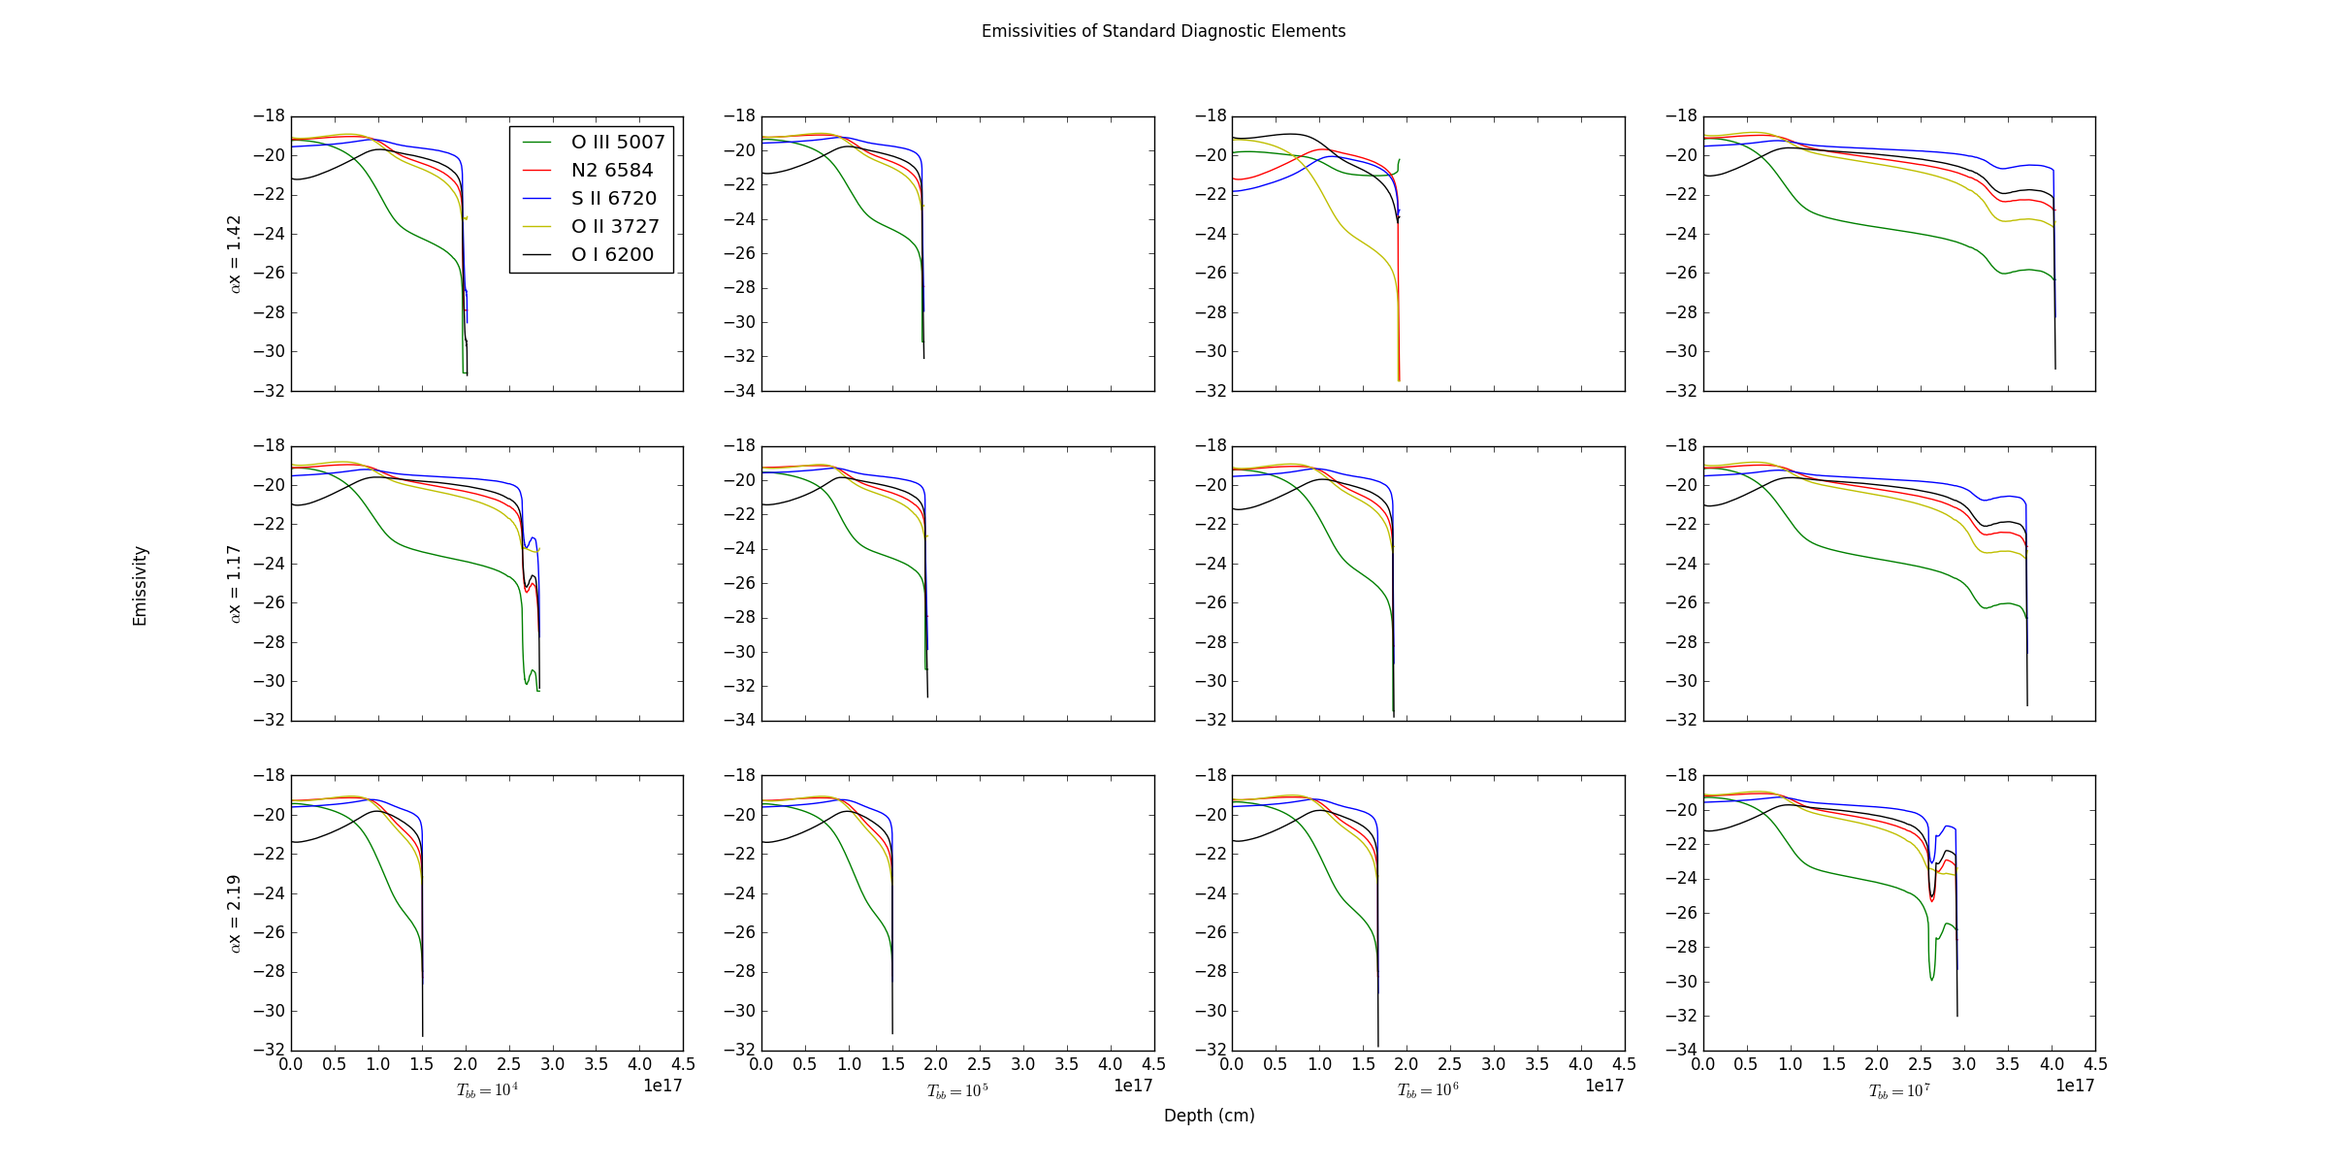
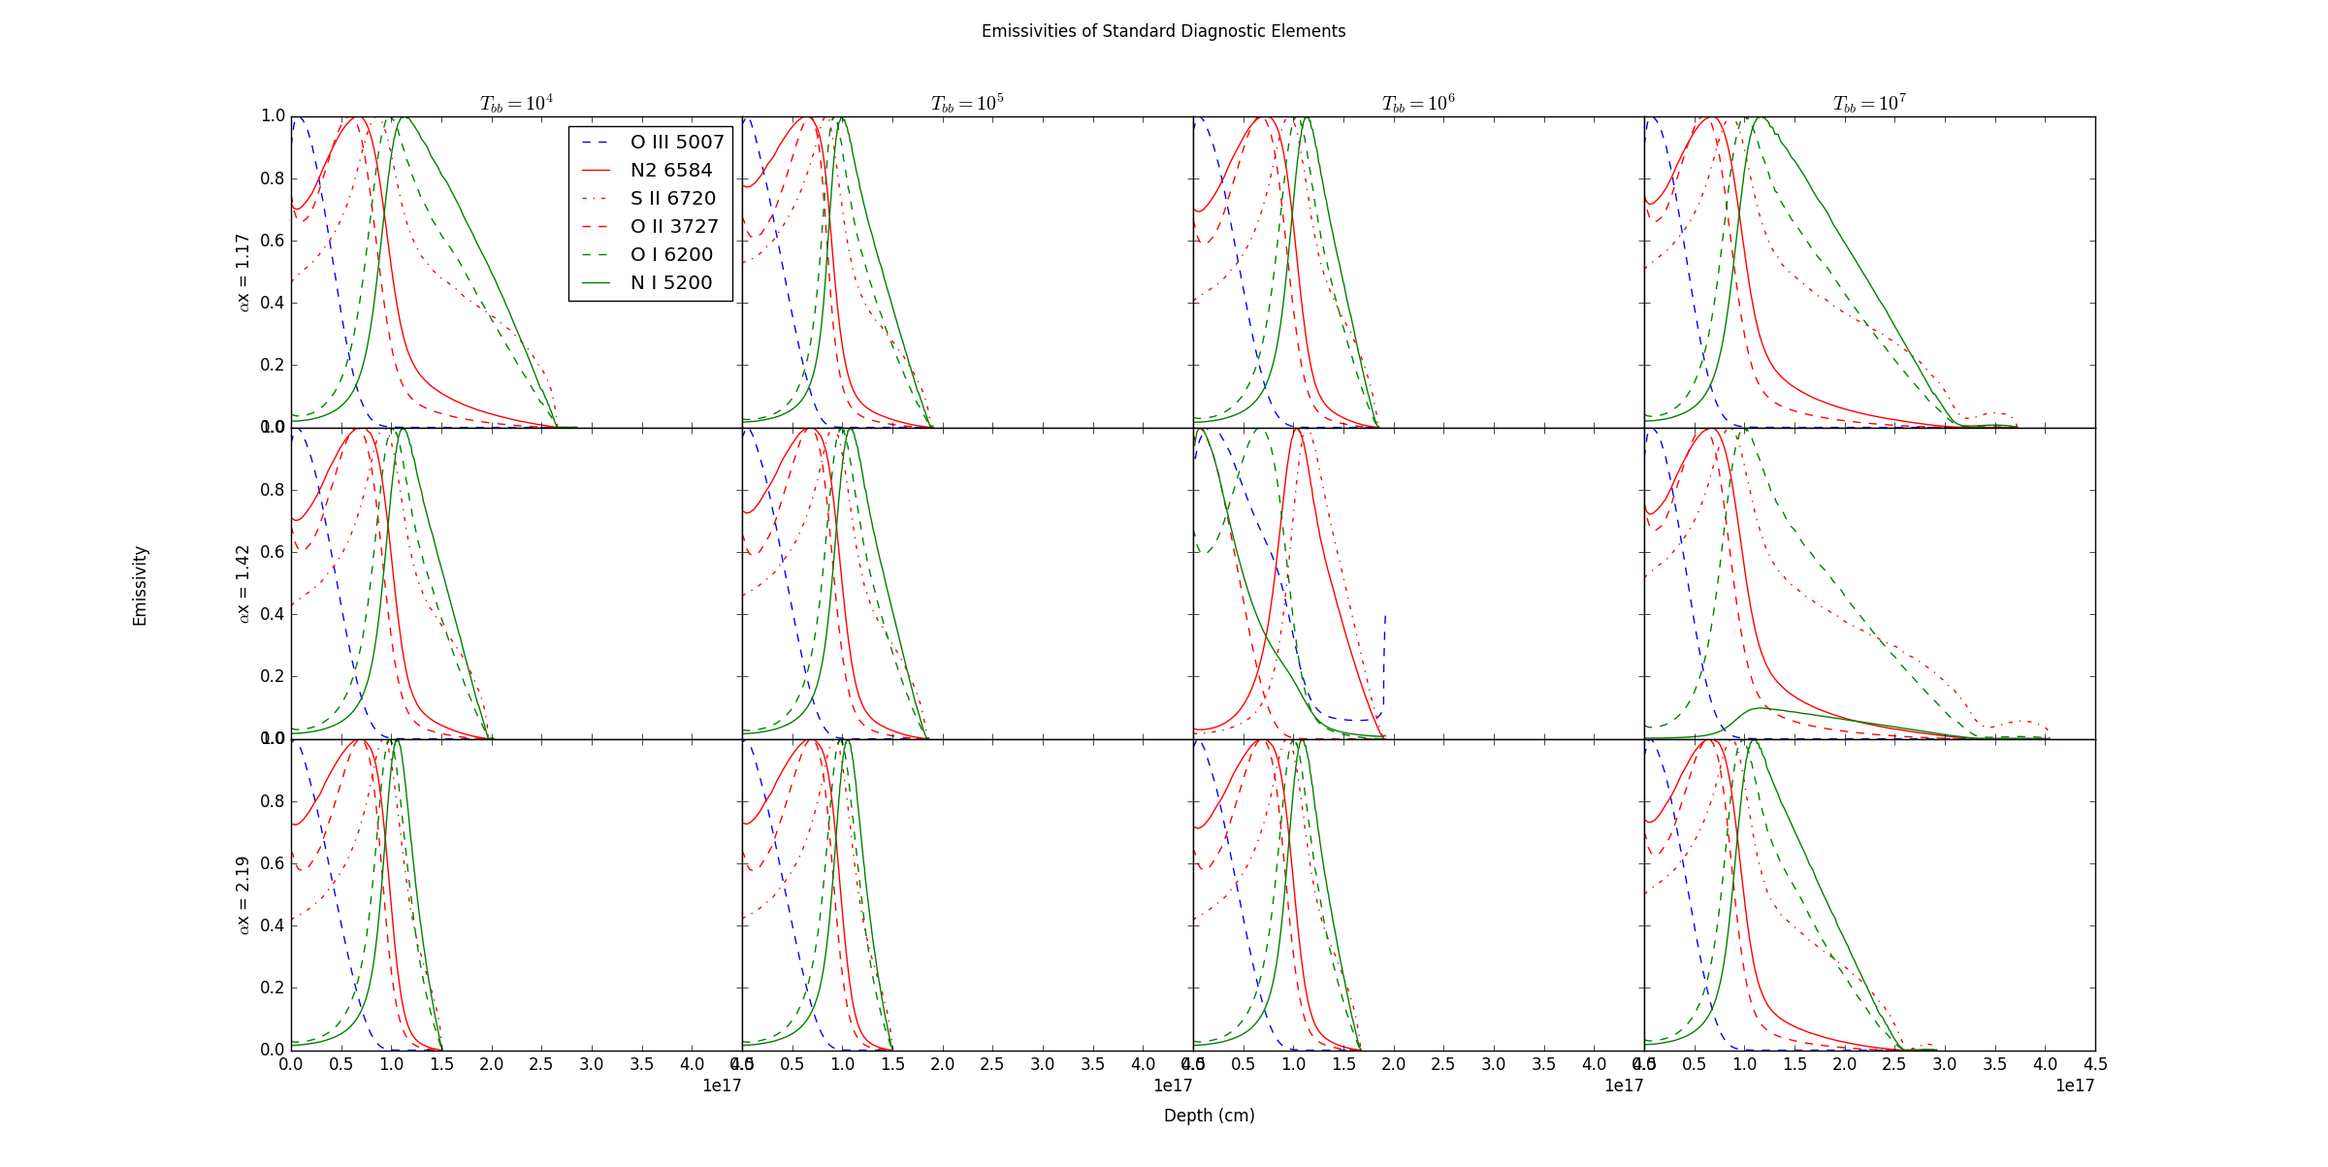
Changed emissivity plot format

diff --git a/scripts/EmissivityPlots.py b/scripts/EmissivityPlots.py
@@ -40,106 +40,106 @@ nitrogenT7_ax117_data = np.genfromtxt(NitrogenT7_ax117_File, skip_header=1,dtype
 nitrogenT7_ax219_data = np.genfromtxt(NitrogenT7_ax219_File, skip_header=1,dtype=float,unpack=False)
 
 fig, ((ax1,ax2,ax3,ax4),(ax5,ax6,ax7,ax8) ,(ax9,ax10,ax11,ax12)) = plt.subplots(3,4,sharex = True,sharey = True)
-plt.gca().invert_yaxis()
+
 plt.subplots_adjust(wspace = 0, hspace = 0)
 
 #Plot Baseline structure for each Temperature
-ax1.plot(NitrogenT4_data[:,0],NitrogenT4_data[:,1]/np.amax(NitrogenT4_data[:,1]), c = 'g', label = 'O III 5007')
-ax1.plot(NitrogenT4_data[:,0],NitrogenT4_data[:,4]/np.amax(NitrogenT4_data[:,4]), c = 'r', ls = '--', label = 'N2 6584')
-ax1.plot(NitrogenT4_data[:,0],NitrogenT4_data[:,9]/np.amax(NitrogenT4_data[:,9]), c = 'r', ls = '-.', label = 'S II 6720')
-ax1.plot(NitrogenT4_data[:,0],NitrogenT4_data[:,2]/np.amax(NitrogenT4_data[:,2]), c = 'r',label = 'O II 3727')
-ax1.plot(NitrogenT4_data[:,0],NitrogenT4_data[:,3]/np.amax(NitrogenT4_data[:,3]), c = 'black', label = 'O I 6200')
-ax1.plot(NitrogenT4_data[:,0], NitrogenT4_data[:,8]/np.amax(NitrogenT4_data[:,8]),c = 'black',ls = '--', label = 'N I 5200')
-ax1.set_ylabel(r'$\alpha$x = 1.42')
+ax5.plot(NitrogenT4_data[:,0],np.divide(10**NitrogenT4_data[:,1],10**np.amax(NitrogenT4_data[:,1])), c = 'b', ls = '--', label = 'O III 5007')
+ax5.plot(NitrogenT4_data[:,0],np.divide(10**NitrogenT4_data[:,4],10**np.amax(NitrogenT4_data[:,4])), c = 'r',  label = 'N II 6584')
+ax5.plot(NitrogenT4_data[:,0],np.divide(10**NitrogenT4_data[:,9],10**np.amax(NitrogenT4_data[:,9])), c = 'r', ls = '-.', label = 'S II 6720')
+ax5.plot(NitrogenT4_data[:,0],np.divide(10**NitrogenT4_data[:,2],10**np.amax(NitrogenT4_data[:,2])), c = 'r', ls = '--',label = 'O II 3727')
+ax5.plot(NitrogenT4_data[:,0],np.divide(10**NitrogenT4_data[:,3],10**np.amax(NitrogenT4_data[:,3])), c = 'g',ls = '--', label = 'O I 6200')
+ax5.plot(NitrogenT4_data[:,0], np.divide(10**NitrogenT4_data[:,8],10**np.amax(NitrogenT4_data[:,8])),c = 'g', label = 'N I 5200')
+ax5.set_ylabel(r'$\alpha$x = 1.42')
 ax1.set_title(r'$T_{bb}=10^4$')
 
-ax2.plot(NitrogenT5_data[:,0],NitrogenT5_data[:,1]/np.amax(NitrogenT5_data[:,1]), c = 'g')
-ax2.plot(NitrogenT5_data[:,0],NitrogenT5_data[:,4]/np.amax(NitrogenT5_data[:,4]), c = 'r',ls = '--')
-ax2.plot(NitrogenT5_data[:,0],NitrogenT5_data[:,9]/np.amax(NitrogenT5_data[:,9]), c = 'r',ls = '-.')
-ax2.plot(NitrogenT5_data[:,0],NitrogenT5_data[:,2]/np.amax(NitrogenT5_data[:,2]), c = 'r')
-ax2.plot(NitrogenT5_data[:,0],NitrogenT5_data[:,3]/np.amax(NitrogenT5_data[:,3]), c = 'black')
-ax2.plot(NitrogenT5_data[:,0], NitrogenT5_data[:,8]/np.amax(NitrogenT5_data[:,8]),c = 'black',ls = '--', label = 'N I 5200')
+ax6.plot(NitrogenT5_data[:,0],10**NitrogenT5_data[:,1]/10**np.amax(NitrogenT5_data[:,1]), c = 'b',ls = '--')
+ax6.plot(NitrogenT5_data[:,0],10**NitrogenT5_data[:,4]/10**np.amax(NitrogenT5_data[:,4]), c = 'r')
+ax6.plot(NitrogenT5_data[:,0],10**NitrogenT5_data[:,9]/10**np.amax(NitrogenT5_data[:,9]), c = 'r',ls = '-.')
+ax6.plot(NitrogenT5_data[:,0],10**NitrogenT5_data[:,2]/10**np.amax(NitrogenT5_data[:,2]), c = 'r',ls = '--')
+ax6.plot(NitrogenT5_data[:,0],10**NitrogenT5_data[:,3]/10**np.amax(NitrogenT5_data[:,3]), c = 'g',ls = '--')
+ax6.plot(NitrogenT5_data[:,0], 10**NitrogenT5_data[:,8]/10**np.amax(NitrogenT5_data[:,8]),c = 'g', label = 'N I 5200')
 ax2.set_title(r'$T_{bb}=10^5$')
 
-ax3.plot(nitrogenT6_data[:,0],nitrogenT6_data[:,1]/np.amax(nitrogenT6_data[:,1]), c = 'g')
-ax3.plot(nitrogenT6_data[:,0],nitrogenT6_data[:,4]/np.amax(nitrogenT6_data[:,4]), c = 'r',ls = '--')
-ax3.plot(nitrogenT6_data[:,0],nitrogenT6_data[:,9]/np.amax(nitrogenT6_data[:,9]), c = 'r',ls = '-.')
-ax3.plot(nitrogenT6_data[:,0],nitrogenT6_data[:,2]/np.amax(nitrogenT6_data[:,2]), c = 'r')
-ax3.plot(nitrogenT6_data[:,0],nitrogenT6_data[:,3]/np.amax(nitrogenT6_data[:,3]), c = 'black')
-ax3.plot(nitrogenT6_data[:,0], nitrogenT6_data[:,8]/np.amax(nitrogenT6_data[:,8]),c = 'black',ls = '--', label = 'N I 5200')
+ax7.plot(nitrogenT6_data[:,0],10**nitrogenT6_data[:,1]/10**np.amax(nitrogenT6_data[:,1]), c = 'b',ls = '--')
+ax7.plot(nitrogenT6_data[:,0],10**nitrogenT6_data[:,4]/10**np.amax(nitrogenT6_data[:,4]), c = 'r')
+ax7.plot(nitrogenT6_data[:,0],10**nitrogenT6_data[:,9]/10**np.amax(nitrogenT6_data[:,9]), c = 'r',ls = '-.')
+ax7.plot(nitrogenT6_data[:,0],10**nitrogenT6_data[:,2]/10**np.amax(nitrogenT6_data[:,2]), c = 'r',ls = '--')
+ax7.plot(nitrogenT6_data[:,0],10**nitrogenT6_data[:,3]/10**np.amax(nitrogenT6_data[:,3]), c = 'g',ls = '--')
+ax7.plot(nitrogenT6_data[:,0],10**nitrogenT6_data[:,8]/10**np.amax(nitrogenT6_data[:,8]),c = 'g', label = 'N I 5200')
 ax3.set_title(r'$T_{bb}=10^6$')
 
-ax4.plot(nitrogenT7_data[:,0],nitrogenT7_data[:,1]/np.amax(nitrogenT7_data[:,1]), c = 'g')
-ax4.plot(nitrogenT7_data[:,0],nitrogenT7_data[:,4]/np.amax(nitrogenT7_data[:,4]), c = 'r',ls = '--')
-ax4.plot(nitrogenT7_data[:,0],nitrogenT7_data[:,9]/np.amax(nitrogenT7_data[:,9]), c = 'r',ls = '-.')
-ax4.plot(nitrogenT7_data[:,0],nitrogenT7_data[:,2]/np.amax(nitrogenT7_data[:,2]), c = 'r')
-ax4.plot(nitrogenT7_data[:,0],nitrogenT7_data[:,3]/np.amax(nitrogenT7_data[:,3]), c = 'black')
-ax4.plot(nitrogenT7_data[:,0], nitrogenT7_data[:,8]/np.amax(nitrogenT7_data[:,4]),c = 'black',ls = '--', label = 'N I 5200')
+ax8.plot(nitrogenT7_data[:,0],10**nitrogenT7_data[:,1]/10**np.amax(nitrogenT7_data[:,1]), c = 'b',ls = '--')
+ax8.plot(nitrogenT7_data[:,0],10**nitrogenT7_data[:,4]/10**np.amax(nitrogenT7_data[:,4]), c = 'r')
+ax8.plot(nitrogenT7_data[:,0],10**nitrogenT7_data[:,9]/10**np.amax(nitrogenT7_data[:,9]), c = 'r',ls = '-.')
+ax8.plot(nitrogenT7_data[:,0],10**nitrogenT7_data[:,2]/10**np.amax(nitrogenT7_data[:,2]), c = 'r',ls = '--')
+ax8.plot(nitrogenT7_data[:,0],10**nitrogenT7_data[:,3]/10**np.amax(nitrogenT7_data[:,3]), c = 'g',ls = '--')
+ax8.plot(nitrogenT7_data[:,0], 10**nitrogenT7_data[:,8]/10**np.amax(nitrogenT7_data[:,4]),c = 'g', label = 'N I 5200')
 ax4.set_title(r'$T_{bb}=10^7$')
 #Plot ax = 117 Structure for each Temperature
-ax5.plot(nitrogenT4_ax117_data[:,0],nitrogenT4_ax117_data[:,1]/np.amax(nitrogenT4_ax117_data[:,1]), c = 'g')
-ax5.plot(nitrogenT4_ax117_data[:,0],nitrogenT4_ax117_data[:,4]/np.amax(nitrogenT4_ax117_data[:,4]), c = 'r',ls = '--')
-ax5.plot(nitrogenT4_ax117_data[:,0],nitrogenT4_ax117_data[:,9]/np.amax(nitrogenT4_ax117_data[:,9]), c = 'r',ls = '-.')
-ax5.plot(nitrogenT4_ax117_data[:,0],nitrogenT4_ax117_data[:,2]/np.amax(nitrogenT4_ax117_data[:,2]), c = 'r')
-ax5.plot(nitrogenT4_ax117_data[:,0],nitrogenT4_ax117_data[:,3]/np.amax(nitrogenT4_ax117_data[:,3]), c = 'black')
-ax5.plot(nitrogenT4_ax117_data[:,0],nitrogenT4_ax117_data[:,8]/np.amax(nitrogenT4_ax117_data[:,8]), c = 'black', ls = '--')
-ax5.set_ylabel(r'$\alpha$x = 1.17')
+ax1.plot(nitrogenT4_ax117_data[:,0],10**nitrogenT4_ax117_data[:,1]/10**np.amax(nitrogenT4_ax117_data[:,1]), c = 'b',ls = '--',label = 'O III 5007')
+ax1.plot(nitrogenT4_ax117_data[:,0],10**nitrogenT4_ax117_data[:,4]/10**np.amax(nitrogenT4_ax117_data[:,4]), c = 'r', label ='N2 6584')
+ax1.plot(nitrogenT4_ax117_data[:,0],10**nitrogenT4_ax117_data[:,9]/10**np.amax(nitrogenT4_ax117_data[:,9]), c = 'r',ls = '-.', label = 'S II 6720' )
+ax1.plot(nitrogenT4_ax117_data[:,0],10**nitrogenT4_ax117_data[:,2]/10**np.amax(nitrogenT4_ax117_data[:,2]), c = 'r',ls = '--',label = 'O II 3727')
+ax1.plot(nitrogenT4_ax117_data[:,0],10**nitrogenT4_ax117_data[:,3]/10**np.amax(nitrogenT4_ax117_data[:,3]), c = 'g',ls = '--', label = 'O I 6200')
+ax1.plot(nitrogenT4_ax117_data[:,0],10**nitrogenT4_ax117_data[:,8]/10**np.amax(nitrogenT4_ax117_data[:,8]), c = 'g',label = 'N I 5200')
+ax1.set_ylabel(r'$\alpha$x = 1.17')
 
-ax6.plot(nitrogenT5_ax117_data[:,0],nitrogenT5_ax117_data[:,1]/np.amax(nitrogenT5_ax117_data[:,1]), c = 'g')
-ax6.plot(nitrogenT5_ax117_data[:,0],nitrogenT5_ax117_data[:,4]/np.amax(nitrogenT5_ax117_data[:,4]), c = 'r',ls = '--')
-ax6.plot(nitrogenT5_ax117_data[:,0],nitrogenT5_ax117_data[:,9]/np.amax(nitrogenT5_ax117_data[:,9]), c = 'r', ls = '-.')
-ax6.plot(nitrogenT5_ax117_data[:,0],nitrogenT5_ax117_data[:,2]/np.amax(nitrogenT5_ax117_data[:,2]), c = 'r')
-ax6.plot(nitrogenT5_ax117_data[:,0],nitrogenT5_ax117_data[:,3]/np.amax(nitrogenT5_ax117_data[:,3]), c = 'black')
-ax6.plot(nitrogenT5_ax117_data[:,0],nitrogenT5_ax117_data[:,8]/np.amax(nitrogenT5_ax117_data[:,8]), c = 'black', ls = '--')
+ax2.plot(nitrogenT5_ax117_data[:,0],10**nitrogenT5_ax117_data[:,1]/10**np.amax(nitrogenT5_ax117_data[:,1]), c = 'b',ls = '--')
+ax2.plot(nitrogenT5_ax117_data[:,0],10**nitrogenT5_ax117_data[:,4]/10**np.amax(nitrogenT5_ax117_data[:,4]), c = 'r')
+ax2.plot(nitrogenT5_ax117_data[:,0],10**nitrogenT5_ax117_data[:,9]/10**np.amax(nitrogenT5_ax117_data[:,9]), c = 'r', ls = '-.')
+ax2.plot(nitrogenT5_ax117_data[:,0],10**nitrogenT5_ax117_data[:,2]/10**np.amax(nitrogenT5_ax117_data[:,2]), c = 'r',ls = '--')
+ax2.plot(nitrogenT5_ax117_data[:,0],10**nitrogenT5_ax117_data[:,3]/10**np.amax(nitrogenT5_ax117_data[:,3]), c = 'g',ls = '--')
+ax2.plot(nitrogenT5_ax117_data[:,0],10**nitrogenT5_ax117_data[:,8]/10**np.amax(nitrogenT5_ax117_data[:,8]), c = 'g')
 
-ax7.plot(nitrogenT6_ax117_data[:,0],nitrogenT6_ax117_data[:,1]/np.amax(nitrogenT6_ax117_data[:,1]), c = 'g')
-ax7.plot(nitrogenT6_ax117_data[:,0],nitrogenT6_ax117_data[:,4]/np.amax(nitrogenT6_ax117_data[:,4]), c = 'r',ls = '--')
-ax7.plot(nitrogenT6_ax117_data[:,0],nitrogenT6_ax117_data[:,9]/np.amax(nitrogenT6_ax117_data[:,9]), c = 'r', ls = '-.')
-ax7.plot(nitrogenT6_ax117_data[:,0],nitrogenT6_ax117_data[:,2]/np.amax(nitrogenT6_ax117_data[:,2]), c = 'r')
-ax7.plot(nitrogenT6_ax117_data[:,0],nitrogenT6_ax117_data[:,3]/np.amax(nitrogenT6_ax117_data[:,3]), c = 'black')
-ax7.plot(nitrogenT6_ax117_data[:,0],nitrogenT6_ax117_data[:,8]/np.amax(nitrogenT6_ax117_data[:,8]), c = 'black', ls = '--')
+ax3.plot(nitrogenT6_ax117_data[:,0],10**nitrogenT6_ax117_data[:,1]/10**np.amax(nitrogenT6_ax117_data[:,1]), c = 'b',ls = '--')
+ax3.plot(nitrogenT6_ax117_data[:,0],10**nitrogenT6_ax117_data[:,4]/10**np.amax(nitrogenT6_ax117_data[:,4]), c = 'r')
+ax3.plot(nitrogenT6_ax117_data[:,0],10**nitrogenT6_ax117_data[:,9]/10**np.amax(nitrogenT6_ax117_data[:,9]), c = 'r', ls = '-.')
+ax3.plot(nitrogenT6_ax117_data[:,0],10**nitrogenT6_ax117_data[:,2]/10**np.amax(nitrogenT6_ax117_data[:,2]), c = 'r',ls = '--')
+ax3.plot(nitrogenT6_ax117_data[:,0],10**nitrogenT6_ax117_data[:,3]/10**np.amax(nitrogenT6_ax117_data[:,3]), c = 'g',ls = '--')
+ax3.plot(nitrogenT6_ax117_data[:,0],10**nitrogenT6_ax117_data[:,8]/10**np.amax(nitrogenT6_ax117_data[:,8]), c = 'g')
 
-ax8.plot(nitrogenT7_ax117_data[:,0],nitrogenT7_ax117_data[:,1]/np.amax(nitrogenT7_ax117_data[:,1]), c = 'g')
-ax8.plot(nitrogenT7_ax117_data[:,0],nitrogenT7_ax117_data[:,4]/np.amax(nitrogenT7_ax117_data[:,4]), c = 'r',ls = '--')
-ax8.plot(nitrogenT7_ax117_data[:,0],nitrogenT7_ax117_data[:,9]/np.amax(nitrogenT7_ax117_data[:,9]), c = 'r', ls = '-.')
-ax8.plot(nitrogenT7_ax117_data[:,0],nitrogenT7_ax117_data[:,2]/np.amax(nitrogenT7_ax117_data[:,2]), c = 'r')
-ax8.plot(nitrogenT7_ax117_data[:,0],nitrogenT7_ax117_data[:,3]/np.amax(nitrogenT7_ax117_data[:,3]), c = 'black')
-ax8.plot(nitrogenT7_ax117_data[:,0],nitrogenT7_ax117_data[:,8]/np.amax(nitrogenT7_ax117_data[:,8]), c = 'black', ls = '--')
+ax4.plot(nitrogenT7_ax117_data[:,0],10**nitrogenT7_ax117_data[:,1]/10**np.amax(nitrogenT7_ax117_data[:,1]), c = 'b',ls = '--')
+ax4.plot(nitrogenT7_ax117_data[:,0],10**nitrogenT7_ax117_data[:,4]/10**np.amax(nitrogenT7_ax117_data[:,4]), c = 'r')
+ax4.plot(nitrogenT7_ax117_data[:,0],10**nitrogenT7_ax117_data[:,9]/10**np.amax(nitrogenT7_ax117_data[:,9]), c = 'r', ls = '-.')
+ax4.plot(nitrogenT7_ax117_data[:,0],10**nitrogenT7_ax117_data[:,2]/10**np.amax(nitrogenT7_ax117_data[:,2]), c = 'r',ls = '--')
+ax4.plot(nitrogenT7_ax117_data[:,0],10**nitrogenT7_ax117_data[:,3]/10**np.amax(nitrogenT7_ax117_data[:,3]), c = 'g',ls = '--')
+ax4.plot(nitrogenT7_ax117_data[:,0],10**nitrogenT7_ax117_data[:,8]/10**np.amax(nitrogenT7_ax117_data[:,8]), c = 'g')
 #Plot ax = 219 structure for each temperature 
-ax9.plot(nitrogenT4_ax219_data[:,0],nitrogenT4_ax219_data[:,1]/np.amax(nitrogenT4_ax219_data[:,1]), c = 'g')
-ax9.plot(nitrogenT4_ax219_data[:,0],nitrogenT4_ax219_data[:,4]/np.amax(nitrogenT4_ax219_data[:,4]), c = 'r',ls = '--')
-ax9.plot(nitrogenT4_ax219_data[:,0],nitrogenT4_ax219_data[:,9]/np.amax(nitrogenT4_ax219_data[:,9]), c = 'r',ls = '-.')
-ax9.plot(nitrogenT4_ax219_data[:,0],nitrogenT4_ax219_data[:,2]/np.amax(nitrogenT4_ax219_data[:,2]), c = 'r')
-ax9.plot(nitrogenT4_ax219_data[:,0],nitrogenT4_ax219_data[:,3]/np.amax(nitrogenT4_ax219_data[:,3]), c = 'black')
-ax9.plot(nitrogenT4_ax219_data[:,0],nitrogenT4_ax219_data[:,8]/np.amax(nitrogenT4_ax219_data[:,8]), c = 'black',ls = '--')
+ax9.plot(nitrogenT4_ax219_data[:,0],10**nitrogenT4_ax219_data[:,1]/10**np.amax(nitrogenT4_ax219_data[:,1]), c = 'b',ls = '--')
+ax9.plot(nitrogenT4_ax219_data[:,0],10**nitrogenT4_ax219_data[:,4]/10**np.amax(nitrogenT4_ax219_data[:,4]), c = 'r')
+ax9.plot(nitrogenT4_ax219_data[:,0],10**nitrogenT4_ax219_data[:,9]/10**np.amax(nitrogenT4_ax219_data[:,9]), c = 'r',ls = '-.')
+ax9.plot(nitrogenT4_ax219_data[:,0],10**nitrogenT4_ax219_data[:,2]/10**np.amax(nitrogenT4_ax219_data[:,2]), c = 'r',ls = '--')
+ax9.plot(nitrogenT4_ax219_data[:,0],10**nitrogenT4_ax219_data[:,3]/10**np.amax(nitrogenT4_ax219_data[:,3]), c = 'g',ls = '--')
+ax9.plot(nitrogenT4_ax219_data[:,0],10**nitrogenT4_ax219_data[:,8]/10**np.amax(nitrogenT4_ax219_data[:,8]), c = 'g')
 
 ax9.set_ylabel(r'$\alpha$x = 2.19')
 #ax9.set_xlabel(r'$T_{bb} = 10^4$')
 
-ax10.plot(nitrogenT5_ax219_data[:,0],nitrogenT5_ax219_data[:,1]/np.amax(nitrogenT5_ax219_data[:,1]), c = 'g')
-ax10.plot(nitrogenT5_ax219_data[:,0],nitrogenT5_ax219_data[:,4]/np.amax(nitrogenT5_ax219_data[:,4]), c = 'r',ls = '--')
-ax10.plot(nitrogenT5_ax219_data[:,0],nitrogenT5_ax219_data[:,9]/np.amax(nitrogenT5_ax219_data[:,9]), c = 'r',ls = '-.')
-ax10.plot(nitrogenT5_ax219_data[:,0],nitrogenT5_ax219_data[:,2]/np.amax(nitrogenT5_ax219_data[:,2]), c = 'r')
-ax10.plot(nitrogenT5_ax219_data[:,0],nitrogenT5_ax219_data[:,3]/np.amax(nitrogenT5_ax219_data[:,3]), c = 'black')
-ax10.plot(nitrogenT5_ax219_data[:,0],nitrogenT5_ax219_data[:,8]/np.amax(nitrogenT5_ax219_data[:,8]), c = 'black',ls = '--')
+ax10.plot(nitrogenT5_ax219_data[:,0],10**nitrogenT5_ax219_data[:,1]/10**np.amax(nitrogenT5_ax219_data[:,1]), c = 'b',ls = '--')
+ax10.plot(nitrogenT5_ax219_data[:,0],10**nitrogenT5_ax219_data[:,4]/10**np.amax(nitrogenT5_ax219_data[:,4]), c = 'r')
+ax10.plot(nitrogenT5_ax219_data[:,0],10**nitrogenT5_ax219_data[:,9]/10**np.amax(nitrogenT5_ax219_data[:,9]), c = 'r',ls = '-.')
+ax10.plot(nitrogenT5_ax219_data[:,0],10**nitrogenT5_ax219_data[:,2]/10**np.amax(nitrogenT5_ax219_data[:,2]), c = 'r',ls = '--')
+ax10.plot(nitrogenT5_ax219_data[:,0],10**nitrogenT5_ax219_data[:,3]/10**np.amax(nitrogenT5_ax219_data[:,3]), c = 'g',ls = '--')
+ax10.plot(nitrogenT5_ax219_data[:,0],10**nitrogenT5_ax219_data[:,8]/10**np.amax(nitrogenT5_ax219_data[:,8]), c = 'g')
 
 #ax10.set_xlabel(r'$T_{bb} = 10^5$')
 
-ax11.plot(nitrogenT6_ax219_data[:,0],nitrogenT6_ax219_data[:,1]/np.amax(nitrogenT6_ax219_data[:,1]), c = 'g')
-ax11.plot(nitrogenT6_ax219_data[:,0],nitrogenT6_ax219_data[:,4]/np.amax(nitrogenT6_ax219_data[:,4]), c = 'r',ls = '--')
-ax11.plot(nitrogenT6_ax219_data[:,0],nitrogenT6_ax219_data[:,9]/np.amax(nitrogenT6_ax219_data[:,9]), c = 'r', ls = '-.')
-ax11.plot(nitrogenT6_ax219_data[:,0],nitrogenT6_ax219_data[:,2]/np.amax(nitrogenT6_ax219_data[:,2]), c = 'r')
-ax11.plot(nitrogenT6_ax219_data[:,0],nitrogenT6_ax219_data[:,3]/np.amax(nitrogenT6_ax219_data[:,3]), c = 'black')
-ax11.plot(nitrogenT6_ax219_data[:,0],nitrogenT6_ax219_data[:,8]/np.amax(nitrogenT6_ax219_data[:,8]), c = 'black',ls = '--')
+ax11.plot(nitrogenT6_ax219_data[:,0],10**nitrogenT6_ax219_data[:,1]/10**np.amax(nitrogenT6_ax219_data[:,1]), c = 'b',ls = '--')
+ax11.plot(nitrogenT6_ax219_data[:,0],10**nitrogenT6_ax219_data[:,4]/10**np.amax(nitrogenT6_ax219_data[:,4]), c = 'r')
+ax11.plot(nitrogenT6_ax219_data[:,0],10**nitrogenT6_ax219_data[:,9]/10**np.amax(nitrogenT6_ax219_data[:,9]), c = 'r', ls = '-.')
+ax11.plot(nitrogenT6_ax219_data[:,0],10**nitrogenT6_ax219_data[:,2]/10**np.amax(nitrogenT6_ax219_data[:,2]), c = 'r',ls = '--')
+ax11.plot(nitrogenT6_ax219_data[:,0],10**nitrogenT6_ax219_data[:,3]/10**np.amax(nitrogenT6_ax219_data[:,3]), c = 'g',ls = '--')
+ax11.plot(nitrogenT6_ax219_data[:,0],10**nitrogenT6_ax219_data[:,8]/10**np.amax(nitrogenT6_ax219_data[:,8]), c = 'g')
 
 #ax11.set_xlabel(r'$T_{bb} = 10^6$')
 
-ax12.plot(nitrogenT7_ax219_data[:,0],nitrogenT7_ax219_data[:,1]/np.amax(nitrogenT7_ax219_data[:,1]), c = 'g')
-ax12.plot(nitrogenT7_ax219_data[:,0],nitrogenT7_ax219_data[:,4]/np.amax(nitrogenT7_ax219_data[:,4]), c = 'r', ls = '--')
-ax12.plot(nitrogenT7_ax219_data[:,0],nitrogenT7_ax219_data[:,9]/np.amax(nitrogenT7_ax219_data[:,9]), c = 'r', ls = '-.')
-ax12.plot(nitrogenT7_ax219_data[:,0],nitrogenT7_ax219_data[:,2]/np.amax(nitrogenT7_ax219_data[:,2]), c = 'r')
-ax12.plot(nitrogenT7_ax219_data[:,0],nitrogenT7_ax219_data[:,3]/np.amax(nitrogenT7_ax219_data[:,3]), c = 'black')
-ax12.plot(nitrogenT7_ax219_data[:,0],nitrogenT7_ax219_data[:,8]/np.amax(nitrogenT7_ax219_data[:,8]), c = 'black', ls = '--')
+ax12.plot(nitrogenT7_ax219_data[:,0],10**nitrogenT7_ax219_data[:,1]/10**np.amax(nitrogenT7_ax219_data[:,1]), c = 'b',ls = '--')
+ax12.plot(nitrogenT7_ax219_data[:,0],10**nitrogenT7_ax219_data[:,4]/10**np.amax(nitrogenT7_ax219_data[:,4]), c = 'r')
+ax12.plot(nitrogenT7_ax219_data[:,0],10**nitrogenT7_ax219_data[:,9]/10**np.amax(nitrogenT7_ax219_data[:,9]), c = 'r', ls = '-.')
+ax12.plot(nitrogenT7_ax219_data[:,0],10**nitrogenT7_ax219_data[:,2]/10**np.amax(nitrogenT7_ax219_data[:,2]), c = 'r',ls = '--')
+ax12.plot(nitrogenT7_ax219_data[:,0],10**nitrogenT7_ax219_data[:,3]/10**np.amax(nitrogenT7_ax219_data[:,3]), c = 'g',ls = '--')
+ax12.plot(nitrogenT7_ax219_data[:,0],10**nitrogenT7_ax219_data[:,8]/10**np.amax(nitrogenT7_ax219_data[:,8]), c = 'g')
 
 #ax12.set_xlabel(r'$T_{bb} = 10^7$')
 
